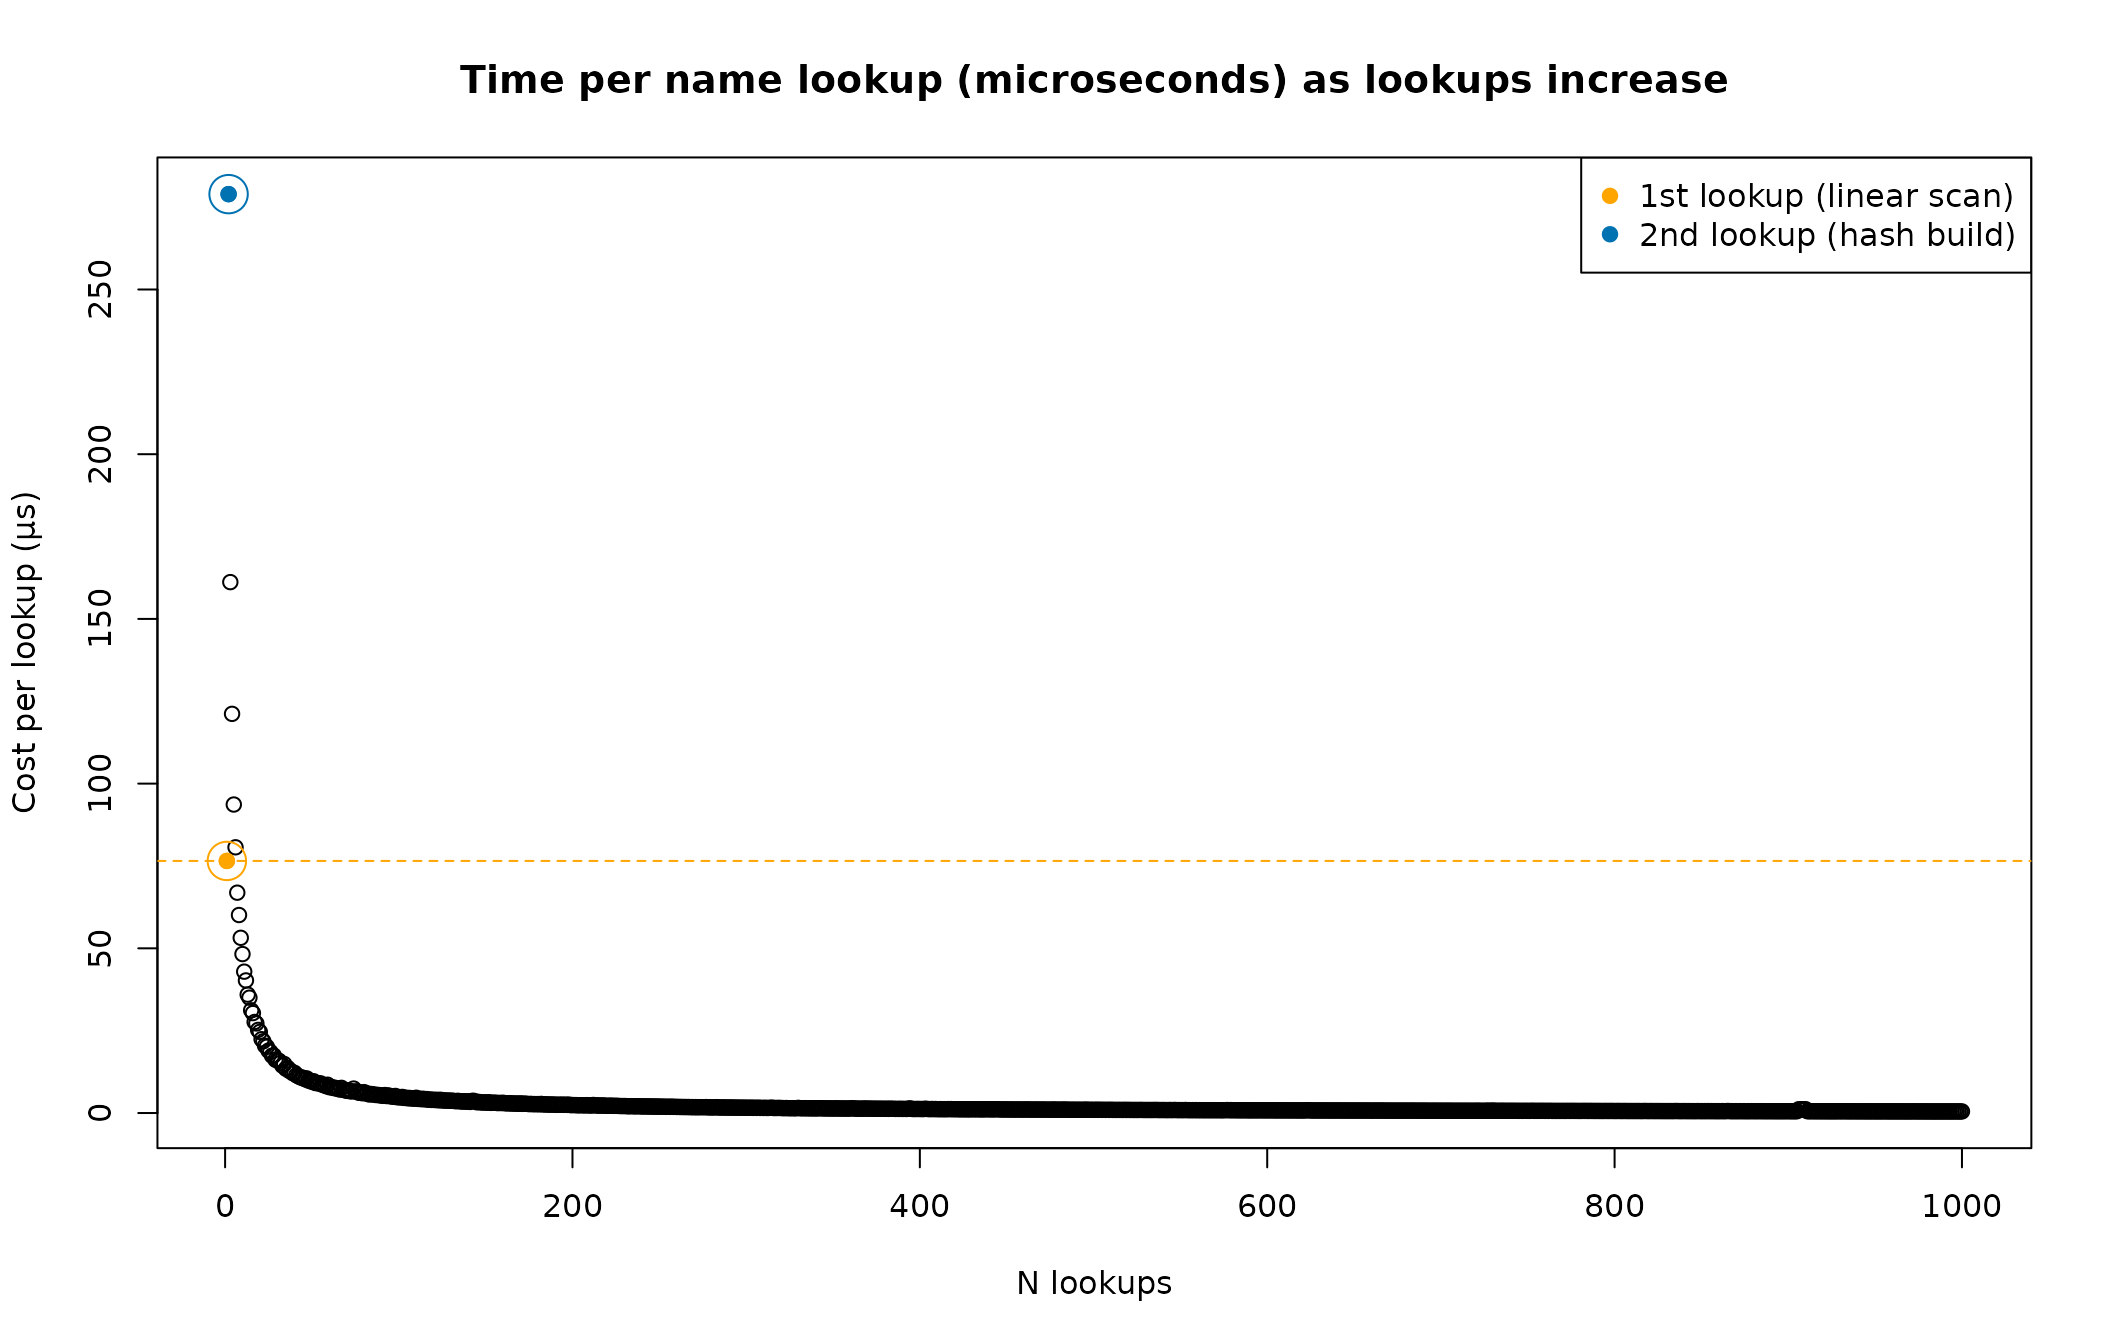
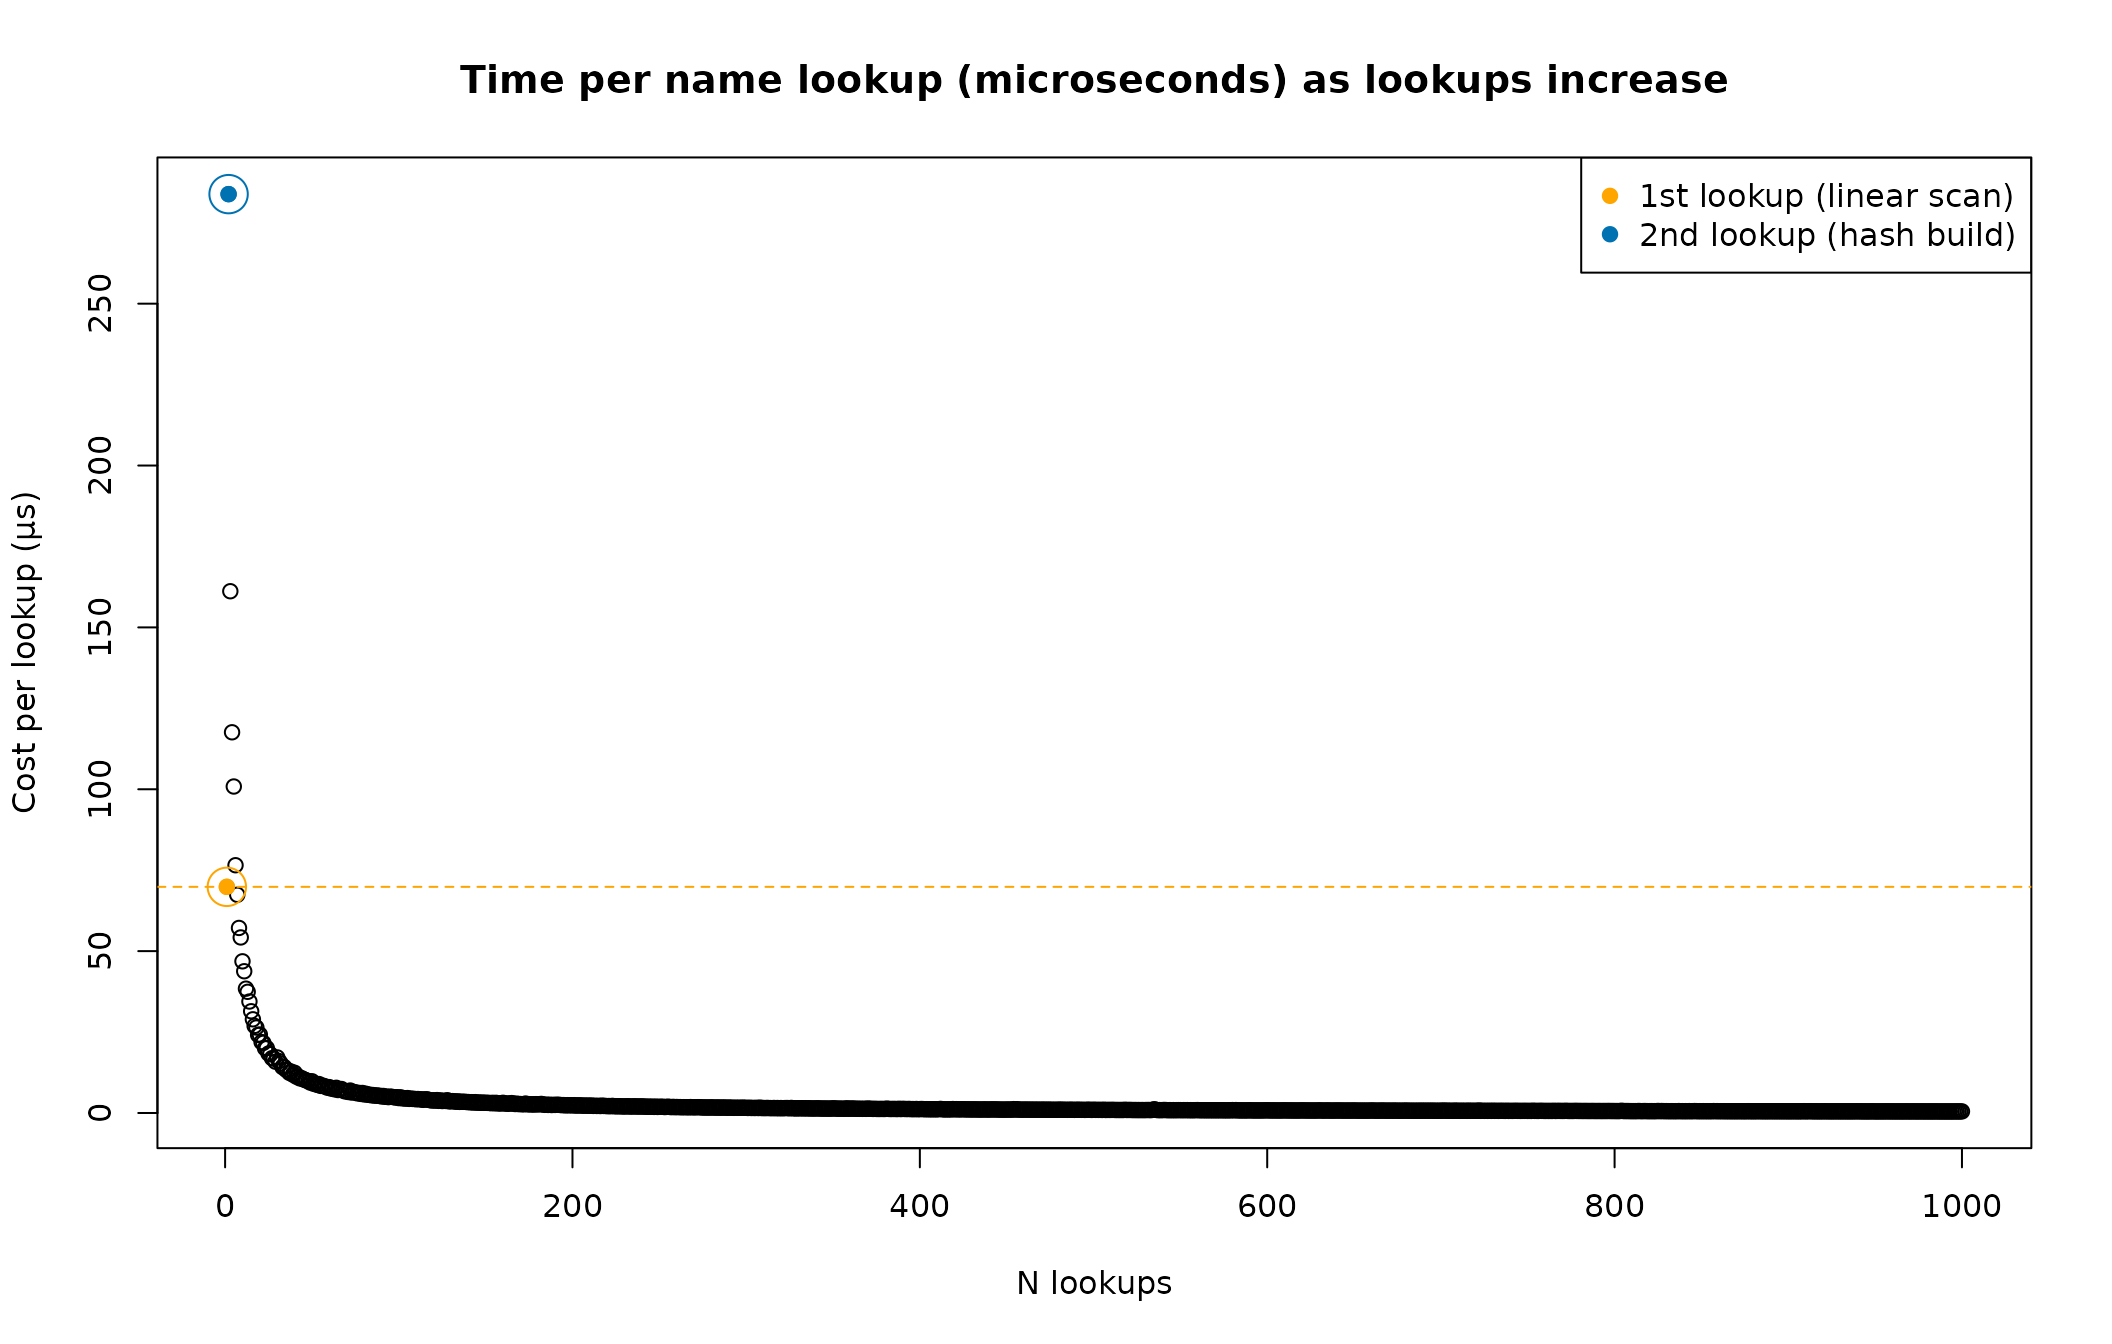
Deploying to gh-pages from @ NicChr/cppally@76e075f650ab6580dc156fc108f180ea218e5807 🚀

diff --git a/articles/protection.html b/articles/protection.html
@@ -144,12 +144,12 @@ optimisations.</p>
 <div class="sourceCode" id="cb4"><pre class="downlit sourceCode r">
 <code class="sourceCode R"><span><span class="va">insert_release_cpp11</span> <span class="op">&lt;-</span> <span class="fu"><a href="https://rdrr.io/r/base/lapply.html" class="external-link">replicate</a></span><span class="op">(</span><span class="fl">10</span><span class="op">^</span><span class="fl">4</span>, <span class="fu">bench_protect_insert_release_cpp11</span><span class="op">(</span><span class="fl">10</span><span class="op">^</span><span class="fl">4</span><span class="op">)</span><span class="op">)</span> </span>
 <span><span class="fu"><a href="https://rdrr.io/r/base/mean.html" class="external-link">mean</a></span><span class="op">(</span><span class="va">insert_release_cpp11</span><span class="op">)</span></span>
-<span><span class="co">#&gt; [1] 40.68932</span></span>
+<span><span class="co">#&gt; [1] 38.67841</span></span>
 <span><span class="va">insert_release_cppally</span> <span class="op">&lt;-</span> <span class="fu"><a href="https://rdrr.io/r/base/lapply.html" class="external-link">replicate</a></span><span class="op">(</span><span class="fl">10</span><span class="op">^</span><span class="fl">4</span>, <span class="fu">bench_protect_insert_release_cppally</span><span class="op">(</span><span class="fl">10</span><span class="op">^</span><span class="fl">4</span><span class="op">)</span><span class="op">)</span></span>
 <span><span class="fu"><a href="https://rdrr.io/r/base/mean.html" class="external-link">mean</a></span><span class="op">(</span><span class="va">insert_release_cppally</span><span class="op">)</span></span>
-<span><span class="co">#&gt; [1] 17.10329</span></span></code></pre></div>
-<p>On my machine, cpp11 performs an insert &amp; release every ~41
-nanoseconds. cppally performs better, with ~17 nanoseconds per insert
+<span><span class="co">#&gt; [1] 19.00819</span></span></code></pre></div>
+<p>On my machine, cpp11 performs an insert &amp; release every ~39
+nanoseconds. cppally performs better, with ~19 nanoseconds per insert
 &amp; release.</p>
 <p><strong>Copy benchmark</strong></p>
 <div class="sourceCode" id="cb5"><pre class="sourceCode cpp"><code class="sourceCode cpp"><span id="cb5-1"><a href="#cb5-1" tabindex="-1"></a></span>
@@ -195,12 +195,12 @@ nanoseconds. cppally performs better, with ~17 nanoseconds per insert
 <div class="sourceCode" id="cb7"><pre class="downlit sourceCode r">
 <code class="sourceCode R"><span><span class="va">copy_sexp_cpp11</span> <span class="op">&lt;-</span> <span class="fu"><a href="https://rdrr.io/r/base/lapply.html" class="external-link">replicate</a></span><span class="op">(</span><span class="fl">10</span><span class="op">^</span><span class="fl">4</span>, <span class="fu">bench_protect_copy_cpp11</span><span class="op">(</span><span class="fl">10</span><span class="op">^</span><span class="fl">4</span><span class="op">)</span><span class="op">)</span></span>
 <span><span class="fu"><a href="https://rdrr.io/r/base/mean.html" class="external-link">mean</a></span><span class="op">(</span><span class="va">copy_sexp_cpp11</span><span class="op">)</span></span>
-<span><span class="co">#&gt; [1] 37.81701</span></span>
+<span><span class="co">#&gt; [1] 37.14745</span></span>
 <span><span class="va">copy_sexp_cppally</span> <span class="op">&lt;-</span> <span class="fu"><a href="https://rdrr.io/r/base/lapply.html" class="external-link">replicate</a></span><span class="op">(</span><span class="fl">10</span><span class="op">^</span><span class="fl">4</span>, <span class="fu">bench_protect_copy_cppally</span><span class="op">(</span><span class="fl">10</span><span class="op">^</span><span class="fl">4</span><span class="op">)</span><span class="op">)</span></span>
 <span><span class="fu"><a href="https://rdrr.io/r/base/mean.html" class="external-link">mean</a></span><span class="op">(</span><span class="va">copy_sexp_cppally</span><span class="op">)</span></span>
-<span><span class="co">#&gt; [1] 0.3160858</span></span></code></pre></div>
+<span><span class="co">#&gt; [1] 0.3462033</span></span></code></pre></div>
 <p>In these benchmark results we can see a drastic difference, with
-cpp11 at ~38 ns/copy and cppally at ~0.3 ns/copy.</p>
+cpp11 at ~37 ns/copy and cppally at ~0.3 ns/copy.</p>
 <p><strong>Impact of protection overhead, a real example</strong></p>
 <p>Let’s look at a real example of how much protection overhead can have
 an impact on performance.</p>
@@ -259,21 +259,21 @@ values in a character vector</p>
 <span><span class="co">#&gt; <span style="color: #949494;"># A tibble: 1 × 6</span></span></span>
 <span><span class="co">#&gt;   expression         min   median `itr/sec` mem_alloc `gc/sec`</span></span>
 <span><span class="co">#&gt;   <span style="color: #949494; font-style: italic;">&lt;bch:expr&gt;</span>    <span style="color: #949494; font-style: italic;">&lt;bch:tm&gt;</span> <span style="color: #949494; font-style: italic;">&lt;bch:tm&gt;</span>     <span style="color: #949494; font-style: italic;">&lt;dbl&gt;</span> <span style="color: #949494; font-style: italic;">&lt;bch:byt&gt;</span>    <span style="color: #949494; font-style: italic;">&lt;dbl&gt;</span></span></span>
-<span><span class="co">#&gt; <span style="color: #BCBCBC;">1</span> C_na_count(x)   34.1µs   63.6µs    <span style="text-decoration: underline;">15</span>520.        0B        0</span></span></code></pre></div>
+<span><span class="co">#&gt; <span style="color: #BCBCBC;">1</span> C_na_count(x)     34µs   63.3µs    <span style="text-decoration: underline;">15</span>634.        0B        0</span></span></code></pre></div>
 <p><strong>cpp11 results</strong></p>
 <div class="sourceCode" id="cb13"><pre class="downlit sourceCode r">
 <code class="sourceCode R"><span><span class="fu"><a href="https://bench.r-lib.org/reference/mark.html" class="external-link">mark</a></span><span class="op">(</span><span class="fu">cpp11_na_count</span><span class="op">(</span><span class="va">x</span><span class="op">)</span><span class="op">)</span></span>
 <span><span class="co">#&gt; <span style="color: #949494;"># A tibble: 1 × 6</span></span></span>
 <span><span class="co">#&gt;   expression             min   median `itr/sec` mem_alloc `gc/sec`</span></span>
 <span><span class="co">#&gt;   <span style="color: #949494; font-style: italic;">&lt;bch:expr&gt;</span>        <span style="color: #949494; font-style: italic;">&lt;bch:tm&gt;</span> <span style="color: #949494; font-style: italic;">&lt;bch:tm&gt;</span>     <span style="color: #949494; font-style: italic;">&lt;dbl&gt;</span> <span style="color: #949494; font-style: italic;">&lt;bch:byt&gt;</span>    <span style="color: #949494; font-style: italic;">&lt;dbl&gt;</span></span></span>
-<span><span class="co">#&gt; <span style="color: #BCBCBC;">1</span> cpp11_na_count(x)   6.73ms   6.92ms      138.        0B     44.9</span></span></code></pre></div>
+<span><span class="co">#&gt; <span style="color: #BCBCBC;">1</span> cpp11_na_count(x)   6.62ms   6.86ms      145.        0B     46.5</span></span></code></pre></div>
 <p><strong>cppally results</strong></p>
 <div class="sourceCode" id="cb14"><pre class="downlit sourceCode r">
 <code class="sourceCode R"><span><span class="fu"><a href="https://bench.r-lib.org/reference/mark.html" class="external-link">mark</a></span><span class="op">(</span><span class="fu">cppally_na_count</span><span class="op">(</span><span class="va">x</span><span class="op">)</span><span class="op">)</span></span>
 <span><span class="co">#&gt; <span style="color: #949494;"># A tibble: 1 × 6</span></span></span>
 <span><span class="co">#&gt;   expression               min   median `itr/sec` mem_alloc `gc/sec`</span></span>
 <span><span class="co">#&gt;   <span style="color: #949494; font-style: italic;">&lt;bch:expr&gt;</span>          <span style="color: #949494; font-style: italic;">&lt;bch:tm&gt;</span> <span style="color: #949494; font-style: italic;">&lt;bch:tm&gt;</span>     <span style="color: #949494; font-style: italic;">&lt;dbl&gt;</span> <span style="color: #949494; font-style: italic;">&lt;bch:byt&gt;</span>    <span style="color: #949494; font-style: italic;">&lt;dbl&gt;</span></span></span>
-<span><span class="co">#&gt; <span style="color: #BCBCBC;">1</span> cppally_na_count(x)   1.46ms   1.47ms      675.        0B        0</span></span></code></pre></div>
+<span><span class="co">#&gt; <span style="color: #BCBCBC;">1</span> cppally_na_count(x)   1.53ms   1.59ms      623.        0B        0</span></span></code></pre></div>
 <p>Counting values is a simple operation and because of its simplicity,
 the overhead associated with protection will dominate the benchmark. We
 can see that when removing the protection overhead and using the R C API
@@ -315,7 +315,7 @@ non-owning version of <code>r_str</code>.</p>
 <span><span class="co">#&gt; <span style="color: #949494;"># A tibble: 1 × 6</span></span></span>
 <span><span class="co">#&gt;   expression                    min   median `itr/sec` mem_alloc `gc/sec`</span></span>
 <span><span class="co">#&gt;   <span style="color: #949494; font-style: italic;">&lt;bch:expr&gt;</span>               <span style="color: #949494; font-style: italic;">&lt;bch:tm&gt;</span> <span style="color: #949494; font-style: italic;">&lt;bch:tm&gt;</span>     <span style="color: #949494; font-style: italic;">&lt;dbl&gt;</span> <span style="color: #949494; font-style: italic;">&lt;bch:byt&gt;</span>    <span style="color: #949494; font-style: italic;">&lt;dbl&gt;</span></span></span>
-<span><span class="co">#&gt; <span style="color: #BCBCBC;">1</span> cppally_fast_na_count(x)   34.3µs   63.9µs    <span style="text-decoration: underline;">15</span>641.        0B     2.02</span></span></code></pre></div>
+<span><span class="co">#&gt; <span style="color: #BCBCBC;">1</span> cppally_fast_na_count(x)   39.2µs   63.6µs    <span style="text-decoration: underline;">15</span>515.        0B        0</span></span></code></pre></div>
 <p>Looking at the benchmark results, we have effectively eliminated the
 protection overhead and the median execution time is much closer to that
 of the R C API.</p>
@@ -342,7 +342,7 @@ context.</p>
 <span><span class="co">#&gt; <span style="color: #949494;"># A tibble: 1 × 6</span></span></span>
 <span><span class="co">#&gt;   expression                       min   median `itr/sec` mem_alloc `gc/sec`</span></span>
 <span><span class="co">#&gt;   <span style="color: #949494; font-style: italic;">&lt;bch:expr&gt;</span>                  <span style="color: #949494; font-style: italic;">&lt;bch:tm&gt;</span> <span style="color: #949494; font-style: italic;">&lt;bch:tm&gt;</span>     <span style="color: #949494; font-style: italic;">&lt;dbl&gt;</span> <span style="color: #949494; font-style: italic;">&lt;bch:byt&gt;</span>    <span style="color: #949494; font-style: italic;">&lt;dbl&gt;</span></span></span>
-<span><span class="co">#&gt; <span style="color: #BCBCBC;">1</span> cppally_fast_na_count_v2(x)   63.5µs     64µs    <span style="text-decoration: underline;">15</span>344.        0B        0</span></span></code></pre></div>
+<span><span class="co">#&gt; <span style="color: #BCBCBC;">1</span> cppally_fast_na_count_v2(x)   63.4µs   63.6µs    <span style="text-decoration: underline;">14</span>857.        0B        0</span></span></code></pre></div>
 <p>The results are similar to that of
 <code>cppally_fast_na_count()</code>.</p>
 </div>

diff --git a/articles/vector_name_hashing.html b/articles/vector_name_hashing.html
@@ -120,12 +120,12 @@ index</p>
 <span><span class="co">#&gt; <span style="color: #949494;"># A tibble: 1 × 6</span></span></span>
 <span><span class="co">#&gt;   expression      min   median `itr/sec` mem_alloc `gc/sec`</span></span>
 <span><span class="co">#&gt;   <span style="color: #949494; font-style: italic;">&lt;bch:expr&gt;</span> <span style="color: #949494; font-style: italic;">&lt;bch:tm&gt;</span> <span style="color: #949494; font-style: italic;">&lt;bch:tm&gt;</span>     <span style="color: #949494; font-style: italic;">&lt;dbl&gt;</span> <span style="color: #949494; font-style: italic;">&lt;bch:byt&gt;</span>    <span style="color: #949494; font-style: italic;">&lt;dbl&gt;</span></span></span>
-<span><span class="co">#&gt; <span style="color: #BCBCBC;">1</span> large[[1]]    130ns    150ns  6<span style="text-decoration: underline;">195</span>831.        0B     620.</span></span>
+<span><span class="co">#&gt; <span style="color: #BCBCBC;">1</span> large[[1]]    130ns    150ns  6<span style="text-decoration: underline;">309</span>521.        0B     631.</span></span>
 <span><span class="fu"><a href="https://bench.r-lib.org/reference/mark.html" class="external-link">mark</a></span><span class="op">(</span><span class="va">large</span><span class="op">[[</span><span class="fu"><a href="https://rdrr.io/r/base/length.html" class="external-link">length</a></span><span class="op">(</span><span class="va">large</span><span class="op">)</span><span class="op">]</span><span class="op">]</span><span class="op">)</span></span>
 <span><span class="co">#&gt; <span style="color: #949494;"># A tibble: 1 × 6</span></span></span>
 <span><span class="co">#&gt;   expression                  min   median `itr/sec` mem_alloc `gc/sec`</span></span>
 <span><span class="co">#&gt;   <span style="color: #949494; font-style: italic;">&lt;bch:expr&gt;</span>             <span style="color: #949494; font-style: italic;">&lt;bch:tm&gt;</span> <span style="color: #949494; font-style: italic;">&lt;bch:tm&gt;</span>     <span style="color: #949494; font-style: italic;">&lt;dbl&gt;</span> <span style="color: #949494; font-style: italic;">&lt;bch:byt&gt;</span>    <span style="color: #949494; font-style: italic;">&lt;dbl&gt;</span></span></span>
-<span><span class="co">#&gt; <span style="color: #BCBCBC;">1</span> large[[length(large)]]    210ns    240ns  3<span style="text-decoration: underline;">940</span>931.        0B        0</span></span></code></pre></div>
+<span><span class="co">#&gt; <span style="color: #BCBCBC;">1</span> large[[length(large)]]    210ns    231ns  4<span style="text-decoration: underline;">020</span>737.        0B        0</span></span></code></pre></div>
 <p>Since R scans the names each time, lookup by name is O(n) and can be
 slow if names happen to be near the end of the vector</p>
 <div class="sourceCode" id="cb6"><pre class="downlit sourceCode r">
@@ -136,8 +136,8 @@ slow if names happen to be near the end of the vector</p>
 <span><span class="co">#&gt; <span style="color: #949494;"># A tibble: 2 × 6</span></span></span>
 <span><span class="co">#&gt;   expression      min   median `itr/sec` mem_alloc `gc/sec`</span></span>
 <span><span class="co">#&gt;   <span style="color: #949494; font-style: italic;">&lt;bch:expr&gt;</span> <span style="color: #949494; font-style: italic;">&lt;bch:tm&gt;</span> <span style="color: #949494; font-style: italic;">&lt;bch:tm&gt;</span>     <span style="color: #949494; font-style: italic;">&lt;dbl&gt;</span> <span style="color: #949494; font-style: italic;">&lt;bch:byt&gt;</span>    <span style="color: #949494; font-style: italic;">&lt;dbl&gt;</span></span></span>
-<span><span class="co">#&gt; <span style="color: #BCBCBC;">1</span> by_name       150ns    161ns  5<span style="text-decoration: underline;">787</span>650.        0B     579.</span></span>
-<span><span class="co">#&gt; <span style="color: #BCBCBC;">2</span> by_index      130ns    150ns  6<span style="text-decoration: underline;">166</span>638.        0B       0</span></span>
+<span><span class="co">#&gt; <span style="color: #BCBCBC;">1</span> by_name       150ns    161ns  5<span style="text-decoration: underline;">694</span>698.        0B     570.</span></span>
+<span><span class="co">#&gt; <span style="color: #BCBCBC;">2</span> by_index      130ns    150ns  6<span style="text-decoration: underline;">036</span>707.        0B       0</span></span>
 <span></span>
 <span><span class="fu"><a href="https://bench.r-lib.org/reference/mark.html" class="external-link">mark</a></span><span class="op">(</span></span>
 <span>    by_name <span class="op">=</span> <span class="va">large</span><span class="op">[[</span><span class="st">"name_100000"</span><span class="op">]</span><span class="op">]</span>, </span>
@@ -146,8 +146,8 @@ slow if names happen to be near the end of the vector</p>
 <span><span class="co">#&gt; <span style="color: #949494;"># A tibble: 2 × 6</span></span></span>
 <span><span class="co">#&gt;   expression      min   median `itr/sec` mem_alloc `gc/sec`</span></span>
 <span><span class="co">#&gt;   <span style="color: #949494; font-style: italic;">&lt;bch:expr&gt;</span> <span style="color: #949494; font-style: italic;">&lt;bch:tm&gt;</span> <span style="color: #949494; font-style: italic;">&lt;bch:tm&gt;</span>     <span style="color: #949494; font-style: italic;">&lt;dbl&gt;</span> <span style="color: #949494; font-style: italic;">&lt;bch:byt&gt;</span>    <span style="color: #949494; font-style: italic;">&lt;dbl&gt;</span></span></span>
-<span><span class="co">#&gt; <span style="color: #BCBCBC;">1</span> by_name       553µs    565µs     <span style="text-decoration: underline;">1</span>756.        0B        0</span></span>
-<span><span class="co">#&gt; <span style="color: #BCBCBC;">2</span> by_index      130ns    150ns  6<span style="text-decoration: underline;">517</span>117.        0B        0</span></span></code></pre></div>
+<span><span class="co">#&gt; <span style="color: #BCBCBC;">1</span> by_name       540µs    553µs     <span style="text-decoration: underline;">1</span>807.        0B        0</span></span>
+<span><span class="co">#&gt; <span style="color: #BCBCBC;">2</span> by_index      130ns    150ns  6<span style="text-decoration: underline;">422</span>522.        0B        0</span></span></code></pre></div>
 <p>If we created a hash table of names-values, we could speedup repeated
 lookups</p>
 <div class="sourceCode" id="cb7"><pre class="downlit sourceCode r">
@@ -171,9 +171,9 @@ hashed name</p>
 <span><span class="co">#&gt; <span style="color: #949494;"># A tibble: 3 × 6</span></span></span>
 <span><span class="co">#&gt;   expression          min   median `itr/sec` mem_alloc `gc/sec`</span></span>
 <span><span class="co">#&gt;   <span style="color: #949494; font-style: italic;">&lt;bch:expr&gt;</span>     <span style="color: #949494; font-style: italic;">&lt;bch:tm&gt;</span> <span style="color: #949494; font-style: italic;">&lt;bch:tm&gt;</span>     <span style="color: #949494; font-style: italic;">&lt;dbl&gt;</span> <span style="color: #949494; font-style: italic;">&lt;bch:byt&gt;</span>    <span style="color: #949494; font-style: italic;">&lt;dbl&gt;</span></span></span>
-<span><span class="co">#&gt; <span style="color: #BCBCBC;">1</span> by_name           553µs    567µs     <span style="text-decoration: underline;">1</span>739.        0B        0</span></span>
-<span><span class="co">#&gt; <span style="color: #BCBCBC;">2</span> by_index          130ns    150ns  5<span style="text-decoration: underline;">923</span>790.        0B        0</span></span>
-<span><span class="co">#&gt; <span style="color: #BCBCBC;">3</span> by_hashed_name    871ns    902ns   <span style="text-decoration: underline;">782</span>378.        0B        0</span></span></code></pre></div>
+<span><span class="co">#&gt; <span style="color: #BCBCBC;">1</span> by_name           543µs    556µs     <span style="text-decoration: underline;">1</span>793.        0B        0</span></span>
+<span><span class="co">#&gt; <span style="color: #BCBCBC;">2</span> by_index          130ns    150ns  6<span style="text-decoration: underline;">104</span>289.        0B        0</span></span>
+<span><span class="co">#&gt; <span style="color: #BCBCBC;">3</span> by_hashed_name    852ns    892ns   <span style="text-decoration: underline;">791</span>142.        0B        0</span></span></code></pre></div>
 <p>That worked! Extracting the value associated with the last name using
 the hash table was almost as fast as looking it up by location.</p>
 <p>cppally uses this same approach internally, attaching a lazy hash map
@@ -305,8 +305,8 @@ R and C++</p>
 <span><span class="co">#&gt; <span style="color: #949494;"># A tibble: 2 × 6</span></span></span>
 <span><span class="co">#&gt;   expression              min   median `itr/sec` mem_alloc `gc/sec`</span></span>
 <span><span class="co">#&gt;   <span style="color: #949494; font-style: italic;">&lt;bch:expr&gt;</span>         <span style="color: #949494; font-style: italic;">&lt;bch:tm&gt;</span> <span style="color: #949494; font-style: italic;">&lt;bch:tm&gt;</span>     <span style="color: #949494; font-style: italic;">&lt;dbl&gt;</span> <span style="color: #949494; font-style: italic;">&lt;bch:byt&gt;</span>    <span style="color: #949494; font-style: italic;">&lt;dbl&gt;</span></span></span>
-<span><span class="co">#&gt; <span style="color: #BCBCBC;">1</span> cppally_one_lookup   33.5µs   34.1µs    <span style="text-decoration: underline;">28</span>079.        0B        0</span></span>
-<span><span class="co">#&gt; <span style="color: #BCBCBC;">2</span> base_one_lookup     560.3µs  572.7µs     <span style="text-decoration: underline;">1</span>745.    21.6KB        0</span></span></code></pre></div>
+<span><span class="co">#&gt; <span style="color: #BCBCBC;">1</span> cppally_one_lookup   33.5µs   33.9µs    <span style="text-decoration: underline;">27</span>843.        0B        0</span></span>
+<span><span class="co">#&gt; <span style="color: #BCBCBC;">2</span> base_one_lookup     545.7µs  558.1µs     <span style="text-decoration: underline;">1</span>787.    21.6KB        0</span></span></code></pre></div>
 <p>While I’m not sure why cppally’s linear scan is faster than R’s, it
 may be due to the fact that direct data access is used to compare
 elements instead of <code>STRING_ELT()</code></p>

diff --git a/reference/cpp_source.html b/reference/cpp_source.html
@@ -304,13 +304,13 @@ the <code>[[cppally::register]]</code> tagged functions to R. <br><code>cpp_eval
 <span class="r-out co"><span class="r-pr">#&gt;</span> <span style="color: #949494;"># A tibble: 1 × 13</span></span>
 <span class="r-out co"><span class="r-pr">#&gt;</span>   expression      min median `itr/sec` mem_alloc `gc/sec` n_itr  n_gc total_time</span>
 <span class="r-out co"><span class="r-pr">#&gt;</span>   <span style="color: #949494; font-style: italic;">&lt;bch:expr&gt;</span>   <span style="color: #949494; font-style: italic;">&lt;bch:&gt;</span> <span style="color: #949494; font-style: italic;">&lt;bch:&gt;</span>     <span style="color: #949494; font-style: italic;">&lt;dbl&gt;</span> <span style="color: #949494; font-style: italic;">&lt;bch:byt&gt;</span>    <span style="color: #949494; font-style: italic;">&lt;dbl&gt;</span> <span style="color: #949494; font-style: italic;">&lt;int&gt;</span> <span style="color: #949494; font-style: italic;">&lt;dbl&gt;</span>   <span style="color: #949494; font-style: italic;">&lt;bch:tm&gt;</span></span>
-<span class="r-out co"><span class="r-pr">#&gt;</span> <span style="color: #BCBCBC;">1</span> last_altrep… 4.01µs 5.36µs   <span style="text-decoration: underline;">182</span>085.    3.18KB        0 <span style="text-decoration: underline;">10</span>000     0     54.9ms</span>
+<span class="r-out co"><span class="r-pr">#&gt;</span> <span style="color: #BCBCBC;">1</span> last_altrep… 4.07µs 5.38µs   <span style="text-decoration: underline;">182</span>784.    3.18KB        0 <span style="text-decoration: underline;">10</span>000     0     54.7ms</span>
 <span class="r-out co"><span class="r-pr">#&gt;</span> <span style="color: #949494;"># ℹ 4 more variables: result &lt;list&gt;, memory &lt;list&gt;, time &lt;list&gt;, gc &lt;list&gt;</span></span>
 <span class="r-in"><span><span class="fu"><a href="https://bench.r-lib.org/reference/mark.html" class="external-link">mark</a></span><span class="op">(</span><span class="fu">last_altrep_unaware</span><span class="op">(</span><span class="fl">1</span><span class="op">:</span><span class="fl">10</span><span class="op">^</span><span class="fl">5</span><span class="op">)</span><span class="op">)</span> <span class="co"># Materialises full vector</span></span></span>
 <span class="r-out co"><span class="r-pr">#&gt;</span> <span style="color: #949494;"># A tibble: 1 × 13</span></span>
 <span class="r-out co"><span class="r-pr">#&gt;</span>   expression      min median `itr/sec` mem_alloc `gc/sec` n_itr  n_gc total_time</span>
 <span class="r-out co"><span class="r-pr">#&gt;</span>   <span style="color: #949494; font-style: italic;">&lt;bch:expr&gt;</span>   <span style="color: #949494; font-style: italic;">&lt;bch:&gt;</span> <span style="color: #949494; font-style: italic;">&lt;bch:&gt;</span>     <span style="color: #949494; font-style: italic;">&lt;dbl&gt;</span> <span style="color: #949494; font-style: italic;">&lt;bch:byt&gt;</span>    <span style="color: #949494; font-style: italic;">&lt;dbl&gt;</span> <span style="color: #949494; font-style: italic;">&lt;int&gt;</span> <span style="color: #949494; font-style: italic;">&lt;dbl&gt;</span>   <span style="color: #949494; font-style: italic;">&lt;bch:tm&gt;</span></span>
-<span class="r-out co"><span class="r-pr">#&gt;</span> <span style="color: #BCBCBC;">1</span> last_altrep… 37.4µs 39.1µs    <span style="text-decoration: underline;">21</span>728.     391KB     176.  <span style="text-decoration: underline;">3</span>707    30      171ms</span>
+<span class="r-out co"><span class="r-pr">#&gt;</span> <span style="color: #BCBCBC;">1</span> last_altrep… 36.9µs 38.8µs    <span style="text-decoration: underline;">20</span>542.     391KB     166.  <span style="text-decoration: underline;">3</span>707    30      180ms</span>
 <span class="r-out co"><span class="r-pr">#&gt;</span> <span style="color: #949494;"># ℹ 4 more variables: result &lt;list&gt;, memory &lt;list&gt;, time &lt;list&gt;, gc &lt;list&gt;</span></span>
 <span class="r-in"><span></span></span>
 <span class="r-in"><span><span class="co">### Copy-on-modify ###</span></span></span>
@@ -346,7 +346,7 @@ the <code>[[cppally::register]]</code> tagged functions to R. <br><code>cpp_eval
 <span class="r-out co"><span class="r-pr">#&gt;</span> <span style="color: #949494;"># A tibble: 1 × 13</span></span>
 <span class="r-out co"><span class="r-pr">#&gt;</span>   expression      min median `itr/sec` mem_alloc `gc/sec` n_itr  n_gc total_time</span>
 <span class="r-out co"><span class="r-pr">#&gt;</span>   <span style="color: #949494; font-style: italic;">&lt;bch:expr&gt;</span> <span style="color: #949494; font-style: italic;">&lt;bch:tm&gt;</span> <span style="color: #949494; font-style: italic;">&lt;bch:&gt;</span>     <span style="color: #949494; font-style: italic;">&lt;dbl&gt;</span> <span style="color: #949494; font-style: italic;">&lt;bch:byt&gt;</span>    <span style="color: #949494; font-style: italic;">&lt;dbl&gt;</span> <span style="color: #949494; font-style: italic;">&lt;int&gt;</span> <span style="color: #949494; font-style: italic;">&lt;dbl&gt;</span>   <span style="color: #949494; font-style: italic;">&lt;bch:tm&gt;</span></span>
-<span class="r-out co"><span class="r-pr">#&gt;</span> <span style="color: #BCBCBC;">1</span> reverse(x)    244µs  252µs     <span style="text-decoration: underline;">3</span>825.     391KB     28.7  <span style="text-decoration: underline;">1</span>730    13      452ms</span>
+<span class="r-out co"><span class="r-pr">#&gt;</span> <span style="color: #BCBCBC;">1</span> reverse(x)    241µs  247µs     <span style="text-decoration: underline;">3</span>891.     391KB     31.0  <span style="text-decoration: underline;">1</span>759    14      452ms</span>
 <span class="r-out co"><span class="r-pr">#&gt;</span> <span style="color: #949494;"># ℹ 4 more variables: result &lt;list&gt;, memory &lt;list&gt;, time &lt;list&gt;, gc &lt;list&gt;</span></span>
 <span class="r-in"><span></span></span>
 <span class="r-in"><span><span class="co"># The cppally preferred approach is to allocate a fresh vector or copy the</span></span></span>
@@ -373,9 +373,9 @@ the <code>[[cppally::register]]</code> tagged functions to R. <br><code>cpp_eval
 <span class="r-out co"><span class="r-pr">#&gt;</span> <span style="color: #949494;"># A tibble: 3 × 13</span></span>
 <span class="r-out co"><span class="r-pr">#&gt;</span>   expression      min median `itr/sec` mem_alloc `gc/sec` n_itr  n_gc total_time</span>
 <span class="r-out co"><span class="r-pr">#&gt;</span>   <span style="color: #949494; font-style: italic;">&lt;bch:expr&gt;</span>  <span style="color: #949494; font-style: italic;">&lt;bch:t&gt;</span> <span style="color: #949494; font-style: italic;">&lt;bch:&gt;</span>     <span style="color: #949494; font-style: italic;">&lt;dbl&gt;</span> <span style="color: #949494; font-style: italic;">&lt;bch:byt&gt;</span>    <span style="color: #949494; font-style: italic;">&lt;dbl&gt;</span> <span style="color: #949494; font-style: italic;">&lt;int&gt;</span> <span style="color: #949494; font-style: italic;">&lt;dbl&gt;</span>   <span style="color: #949494; font-style: italic;">&lt;bch:tm&gt;</span></span>
-<span class="r-out co"><span class="r-pr">#&gt;</span> <span style="color: #BCBCBC;">1</span> r_reverse   220.9µs  224µs     <span style="text-decoration: underline;">4</span>159.     781KB     66.5  <span style="text-decoration: underline;">1</span>314    21      316ms</span>
-<span class="r-out co"><span class="r-pr">#&gt;</span> <span style="color: #BCBCBC;">2</span> cppally_co… 244.1µs  253µs     <span style="text-decoration: underline;">3</span>552.     391KB     29.0  <span style="text-decoration: underline;">1</span>591    13      448ms</span>
-<span class="r-out co"><span class="r-pr">#&gt;</span> <span style="color: #BCBCBC;">3</span> cppally_no…  58.6µs   64µs    <span style="text-decoration: underline;">10</span>853.     391KB     82.2  <span style="text-decoration: underline;">3</span>434    26      316ms</span>
+<span class="r-out co"><span class="r-pr">#&gt;</span> <span style="color: #BCBCBC;">1</span> r_reverse   220.4µs  224µs     <span style="text-decoration: underline;">4</span>191.     781KB     67.4  <span style="text-decoration: underline;">1</span>306    21      312ms</span>
+<span class="r-out co"><span class="r-pr">#&gt;</span> <span style="color: #BCBCBC;">2</span> cppally_co… 241.2µs  247µs     <span style="text-decoration: underline;">4</span>004.     391KB     30.9  <span style="text-decoration: underline;">1</span>812    14      453ms</span>
+<span class="r-out co"><span class="r-pr">#&gt;</span> <span style="color: #BCBCBC;">3</span> cppally_no…  56.4µs  206µs     <span style="text-decoration: underline;">6</span>129.     391KB     48.0  <span style="text-decoration: underline;">2</span>426    19      396ms</span>
 <span class="r-out co"><span class="r-pr">#&gt;</span> <span style="color: #949494;"># ℹ 4 more variables: result &lt;list&gt;, memory &lt;list&gt;, time &lt;list&gt;, gc &lt;list&gt;</span></span>
 <span class="r-in"><span><span class="co"># }</span></span></span>
 <span class="r-in"><span></span></span>

diff --git a/articles/cppally.html b/articles/cppally.html
@@ -1227,8 +1227,8 @@ of number of unique values.</p>
 <span><span class="co">#&gt; <span style="color: #949494;"># A tibble: 2 × 6</span></span></span>
 <span><span class="co">#&gt;   expression            min   median `itr/sec` mem_alloc `gc/sec`</span></span>
 <span><span class="co">#&gt;   <span style="color: #949494; font-style: italic;">&lt;bch:expr&gt;</span>       <span style="color: #949494; font-style: italic;">&lt;bch:tm&gt;</span> <span style="color: #949494; font-style: italic;">&lt;bch:tm&gt;</span>     <span style="color: #949494; font-style: italic;">&lt;dbl&gt;</span> <span style="color: #949494; font-style: italic;">&lt;bch:byt&gt;</span>    <span style="color: #949494; font-style: italic;">&lt;dbl&gt;</span></span></span>
-<span><span class="co">#&gt; <span style="color: #BCBCBC;">1</span> base_n_unique       721µs    798µs     <span style="text-decoration: underline;">1</span>125.    1.38MB     32.0</span></span>
-<span><span class="co">#&gt; <span style="color: #BCBCBC;">2</span> cppally_n_unique    126µs    127µs     <span style="text-decoration: underline;">7</span>727.        0B      0</span></span></code></pre></div>
+<span><span class="co">#&gt; <span style="color: #BCBCBC;">1</span> base_n_unique       715µs    790µs     <span style="text-decoration: underline;">1</span>140.    1.38MB     34.3</span></span>
+<span><span class="co">#&gt; <span style="color: #BCBCBC;">2</span> cppally_n_unique    126µs    127µs     <span style="text-decoration: underline;">7</span>719.        0B      0</span></span></code></pre></div>
 <p>More useful sugar functions</p>
 <ul>
 <li><p><code><a href="https://rdrr.io/r/base/unique.html" class="external-link">unique()</a></code> - Like R’s <code><a href="https://rdrr.io/r/base/unique.html" class="external-link">unique()</a></code> but with a

diff --git a/articles/protection.md b/articles/protection.md
@@ -88,14 +88,14 @@ double bench_protect_insert_release_cppally(int n) {
 
 insert_release_cpp11 <- replicate(10^4, bench_protect_insert_release_cpp11(10^4)) 
 mean(insert_release_cpp11)
-#> [1] 40.68932
+#> [1] 38.67841
 insert_release_cppally <- replicate(10^4, bench_protect_insert_release_cppally(10^4))
 mean(insert_release_cppally)
-#> [1] 17.10329
+#> [1] 19.00819
 ```
 
-On my machine, cpp11 performs an insert & release every ~41 nanoseconds.
-cppally performs better, with ~17 nanoseconds per insert & release.
+On my machine, cpp11 performs an insert & release every ~39 nanoseconds.
+cppally performs better, with ~19 nanoseconds per insert & release.
 
 **Copy benchmark**
 
@@ -150,14 +150,14 @@ double bench_protect_copy_cppally(int n) {
 
 copy_sexp_cpp11 <- replicate(10^4, bench_protect_copy_cpp11(10^4))
 mean(copy_sexp_cpp11)
-#> [1] 37.81701
+#> [1] 37.14745
 copy_sexp_cppally <- replicate(10^4, bench_protect_copy_cppally(10^4))
 mean(copy_sexp_cppally)
-#> [1] 0.3160858
+#> [1] 0.3462033
 ```
 
 In these benchmark results we can see a drastic difference, with cpp11
-at ~38 ns/copy and cppally at ~0.3 ns/copy.
+at ~37 ns/copy and cppally at ~0.3 ns/copy.
 
 **Impact of protection overhead, a real example**
 
@@ -233,7 +233,7 @@ mark(C_na_count(x))
 #> # A tibble: 1 × 6
 #>   expression         min   median `itr/sec` mem_alloc `gc/sec`
 #>   <bch:expr>    <bch:tm> <bch:tm>     <dbl> <bch:byt>    <dbl>
-#> 1 C_na_count(x)   34.1µs   63.6µs    15520.        0B        0
+#> 1 C_na_count(x)     34µs   63.3µs    15634.        0B        0
 ```
 
 **cpp11 results**
@@ -244,7 +244,7 @@ mark(cpp11_na_count(x))
 #> # A tibble: 1 × 6
 #>   expression             min   median `itr/sec` mem_alloc `gc/sec`
 #>   <bch:expr>        <bch:tm> <bch:tm>     <dbl> <bch:byt>    <dbl>
-#> 1 cpp11_na_count(x)   6.73ms   6.92ms      138.        0B     44.9
+#> 1 cpp11_na_count(x)   6.62ms   6.86ms      145.        0B     46.5
 ```
 
 **cppally results**
@@ -255,7 +255,7 @@ mark(cppally_na_count(x))
 #> # A tibble: 1 × 6
 #>   expression               min   median `itr/sec` mem_alloc `gc/sec`
 #>   <bch:expr>          <bch:tm> <bch:tm>     <dbl> <bch:byt>    <dbl>
-#> 1 cppally_na_count(x)   1.46ms   1.47ms      675.        0B        0
+#> 1 cppally_na_count(x)   1.53ms   1.59ms      623.        0B        0
 ```
 
 Counting values is a simple operation and because of its simplicity, the
@@ -302,7 +302,7 @@ mark(cppally_fast_na_count(x))
 #> # A tibble: 1 × 6
 #>   expression                    min   median `itr/sec` mem_alloc `gc/sec`
 #>   <bch:expr>               <bch:tm> <bch:tm>     <dbl> <bch:byt>    <dbl>
-#> 1 cppally_fast_na_count(x)   34.3µs   63.9µs    15641.        0B     2.02
+#> 1 cppally_fast_na_count(x)   39.2µs   63.6µs    15515.        0B        0
 ```
 
 Looking at the benchmark results, we have effectively eliminated the
@@ -335,7 +335,7 @@ mark(cppally_fast_na_count_v2(x))
 #> # A tibble: 1 × 6
 #>   expression                       min   median `itr/sec` mem_alloc `gc/sec`
 #>   <bch:expr>                  <bch:tm> <bch:tm>     <dbl> <bch:byt>    <dbl>
-#> 1 cppally_fast_na_count_v2(x)   63.5µs     64µs    15344.        0B        0
+#> 1 cppally_fast_na_count_v2(x)   63.4µs   63.6µs    14857.        0B        0
 ```
 
 The results are similar to that of `cppally_fast_na_count()`.

diff --git a/articles/vector_name_hashing.md b/articles/vector_name_hashing.md
@@ -68,12 +68,12 @@ mark(large[[1]])
 #> # A tibble: 1 × 6
 #>   expression      min   median `itr/sec` mem_alloc `gc/sec`
 #>   <bch:expr> <bch:tm> <bch:tm>     <dbl> <bch:byt>    <dbl>
-#> 1 large[[1]]    130ns    150ns  6195831.        0B     620.
+#> 1 large[[1]]    130ns    150ns  6309521.        0B     631.
 mark(large[[length(large)]])
 #> # A tibble: 1 × 6
 #>   expression                  min   median `itr/sec` mem_alloc `gc/sec`
 #>   <bch:expr>             <bch:tm> <bch:tm>     <dbl> <bch:byt>    <dbl>
-#> 1 large[[length(large)]]    210ns    240ns  3940931.        0B        0
+#> 1 large[[length(large)]]    210ns    231ns  4020737.        0B        0
 ```
 
 Since R scans the names each time, lookup by name is O(n) and can be
@@ -88,8 +88,8 @@ mark(
 #> # A tibble: 2 × 6
 #>   expression      min   median `itr/sec` mem_alloc `gc/sec`
 #>   <bch:expr> <bch:tm> <bch:tm>     <dbl> <bch:byt>    <dbl>
-#> 1 by_name       150ns    161ns  5787650.        0B     579.
-#> 2 by_index      130ns    150ns  6166638.        0B       0
+#> 1 by_name       150ns    161ns  5694698.        0B     570.
+#> 2 by_index      130ns    150ns  6036707.        0B       0
 
 mark(
     by_name = large[["name_100000"]], 
@@ -98,8 +98,8 @@ mark(
 #> # A tibble: 2 × 6
 #>   expression      min   median `itr/sec` mem_alloc `gc/sec`
 #>   <bch:expr> <bch:tm> <bch:tm>     <dbl> <bch:byt>    <dbl>
-#> 1 by_name       553µs    565µs     1756.        0B        0
-#> 2 by_index      130ns    150ns  6517117.        0B        0
+#> 1 by_name       540µs    553µs     1807.        0B        0
+#> 2 by_index      130ns    150ns  6422522.        0B        0
 ```
 
 If we created a hash table of names-values, we could speedup repeated
@@ -131,9 +131,9 @@ mark(
 #> # A tibble: 3 × 6
 #>   expression          min   median `itr/sec` mem_alloc `gc/sec`
 #>   <bch:expr>     <bch:tm> <bch:tm>     <dbl> <bch:byt>    <dbl>
-#> 1 by_name           553µs    567µs     1739.        0B        0
-#> 2 by_index          130ns    150ns  5923790.        0B        0
-#> 3 by_hashed_name    871ns    902ns   782378.        0B        0
+#> 1 by_name           543µs    556µs     1793.        0B        0
+#> 2 by_index          130ns    150ns  6104289.        0B        0
+#> 3 by_hashed_name    852ns    892ns   791142.        0B        0
 ```
 
 That worked! Extracting the value associated with the last name using
@@ -293,8 +293,8 @@ mark(
 #> # A tibble: 2 × 6
 #>   expression              min   median `itr/sec` mem_alloc `gc/sec`
 #>   <bch:expr>         <bch:tm> <bch:tm>     <dbl> <bch:byt>    <dbl>
-#> 1 cppally_one_lookup   33.5µs   34.1µs    28079.        0B        0
-#> 2 base_one_lookup     560.3µs  572.7µs     1745.    21.6KB        0
+#> 1 cppally_one_lookup   33.5µs   33.9µs    27843.        0B        0
+#> 2 base_one_lookup     545.7µs  558.1µs     1787.    21.6KB        0
 ```
 
 While I’m not sure why cppally’s linear scan is faster than R’s, it may

diff --git a/reference/cpp_source.md b/reference/cpp_source.md
@@ -243,13 +243,13 @@ mark(last_altrep_aware(1:10^5)) # No materialisation
 #> # A tibble: 1 × 13
 #>   expression      min median `itr/sec` mem_alloc `gc/sec` n_itr  n_gc total_time
 #>   <bch:expr>   <bch:> <bch:>     <dbl> <bch:byt>    <dbl> <int> <dbl>   <bch:tm>
-#> 1 last_altrep… 4.01µs 5.36µs   182085.    3.18KB        0 10000     0     54.9ms
+#> 1 last_altrep… 4.07µs 5.38µs   182784.    3.18KB        0 10000     0     54.7ms
 #> # ℹ 4 more variables: result <list>, memory <list>, time <list>, gc <list>
 mark(last_altrep_unaware(1:10^5)) # Materialises full vector
 #> # A tibble: 1 × 13
 #>   expression      min median `itr/sec` mem_alloc `gc/sec` n_itr  n_gc total_time
 #>   <bch:expr>   <bch:> <bch:>     <dbl> <bch:byt>    <dbl> <int> <dbl>   <bch:tm>
-#> 1 last_altrep… 37.4µs 39.1µs    21728.     391KB     176.  3707    30      171ms
+#> 1 last_altrep… 36.9µs 38.8µs    20542.     391KB     166.  3707    30      180ms
 #> # ℹ 4 more variables: result <list>, memory <list>, time <list>, gc <list>
 
 ### Copy-on-modify ###
@@ -285,7 +285,7 @@ mark(reverse(x)) # Memory allocated, therefore x was copied before reversing
 #> # A tibble: 1 × 13
 #>   expression      min median `itr/sec` mem_alloc `gc/sec` n_itr  n_gc total_time
 #>   <bch:expr> <bch:tm> <bch:>     <dbl> <bch:byt>    <dbl> <int> <dbl>   <bch:tm>
-#> 1 reverse(x)    244µs  252µs     3825.     391KB     28.7  1730    13      452ms
+#> 1 reverse(x)    241µs  247µs     3891.     391KB     31.0  1759    14      452ms
 #> # ℹ 4 more variables: result <list>, memory <list>, time <list>, gc <list>
 
 # The cppally preferred approach is to allocate a fresh vector or copy the
@@ -312,9 +312,9 @@ mark(
 #> # A tibble: 3 × 13
 #>   expression      min median `itr/sec` mem_alloc `gc/sec` n_itr  n_gc total_time
 #>   <bch:expr>  <bch:t> <bch:>     <dbl> <bch:byt>    <dbl> <int> <dbl>   <bch:tm>
-#> 1 r_reverse   220.9µs  224µs     4159.     781KB     66.5  1314    21      316ms
-#> 2 cppally_co… 244.1µs  253µs     3552.     391KB     29.0  1591    13      448ms
-#> 3 cppally_no…  58.6µs   64µs    10853.     391KB     82.2  3434    26      316ms
+#> 1 r_reverse   220.4µs  224µs     4191.     781KB     67.4  1306    21      312ms
+#> 2 cppally_co… 241.2µs  247µs     4004.     391KB     30.9  1812    14      453ms
+#> 3 cppally_no…  56.4µs  206µs     6129.     391KB     48.0  2426    19      396ms
 #> # ℹ 4 more variables: result <list>, memory <list>, time <list>, gc <list>
 # }
 ```

diff --git a/articles/cppally.md b/articles/cppally.md
@@ -1384,8 +1384,8 @@ mark(
 #> # A tibble: 2 × 6
 #>   expression            min   median `itr/sec` mem_alloc `gc/sec`
 #>   <bch:expr>       <bch:tm> <bch:tm>     <dbl> <bch:byt>    <dbl>
-#> 1 base_n_unique       721µs    798µs     1125.    1.38MB     32.0
-#> 2 cppally_n_unique    126µs    127µs     7727.        0B      0
+#> 1 base_n_unique       715µs    790µs     1140.    1.38MB     34.3
+#> 2 cppally_n_unique    126µs    127µs     7719.        0B      0
 ```
 
 More useful sugar functions